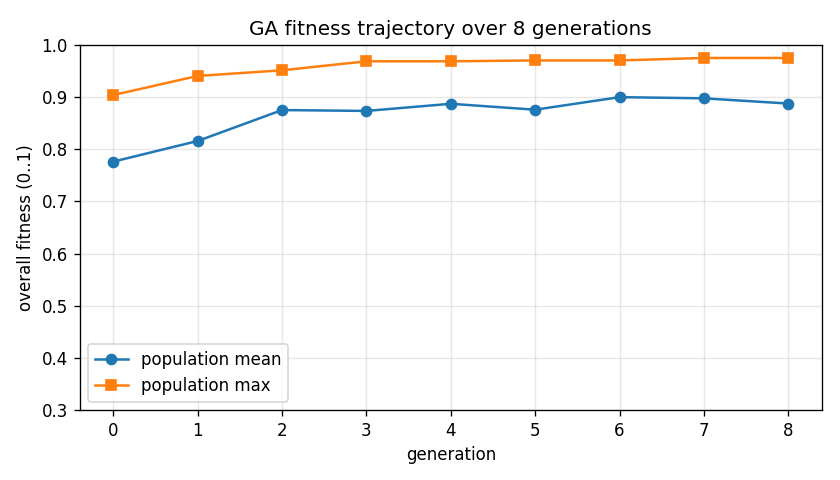
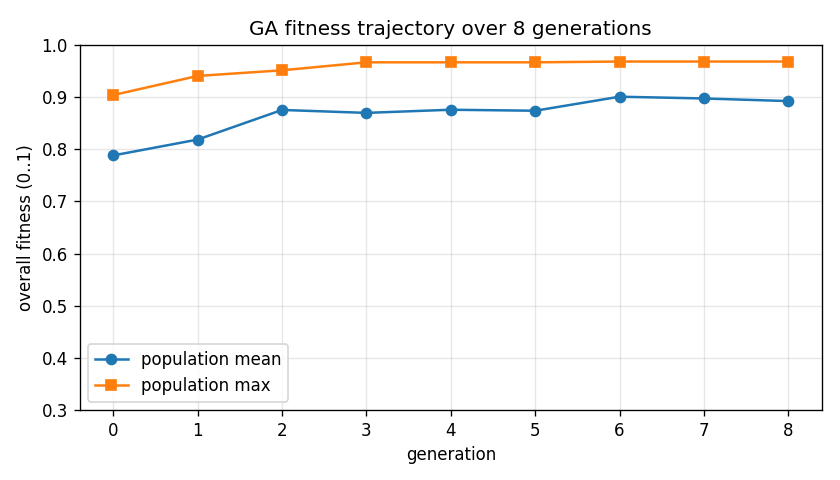
render3d: shoulder strap ends at clavicle, not on the ear
On this T-pose mesh the body radius narrows at the neck (~r=1 at y=148)
then flares back out through the skull from y=150-170 at radius 5-7.
My earlier _body_point_at(V, u=0.27, y=y_neck+8=162) looked for the
nearest 'torso' vertex within max_torso_radius=22 — at that height the
closest in-range vertex is on the ear / jaw, so both shoulder-strap
tubes ended right on the ears. From the front render they read as two
thin earrings and, combined with the halter tubes, showed up as
vertical lines under the chin on e.g. american_sporty.

Fix: compute shoulder_end directly from the anchor instead of doing a
mesh lookup at ear altitude —

    end = anchor + (-0.3*anchor[0], +4, +1)

Pulls the tube 30% toward centerline in x, 4 cm up (clavicle height,
~y=144 on this mesh), 1 cm forward. Guaranteed to stay on the shoulder
topology; no _body_point_at call at or above y_neck.

Tests still 27/27 passing; archetype gallery now has clean ears on all
14 samples, halter straps cleanly converge at the sternal notch.

diff --git a/tools/render3d_uv.py b/tools/render3d_uv.py
@@ -852,20 +852,28 @@ def build_strap_meshes(body_mesh: o3d.geometry.TriangleMesh, g,
     straps.extend(_build_beads_meshes(g, V, v_to_y))
     straps.extend(_build_shell_mesh(g, V, v_to_y))
 
-    # 6) Shoulder straps — two tubes from outer-top of each cup up to the
-    #    shoulder (where they'd meet the back band in reality). Controlled
-    #    by g.top_shoulder_strap.
+    # 6) Shoulder straps — two short tubes from the outer-top of each cup
+    #    up to the clavicle / top of the shoulder. End position is derived
+    #    from the cup anchor + a fixed up-and-in offset rather than
+    #    sampling the body mesh high above y_neck — a _body_point_at()
+    #    lookup at y_neck+8 lands on the head (ears / jaw) on this
+    #    T-pose mesh because the neck constriction makes the nearest
+    #    torso-radius vertex the skull.
     if g.top_shoulder_strap > 0.15:
         strap_r = 0.15 + 0.22 * g.top_shoulder_strap
         cup_top_v = g.top_center_v + g.top_half_v
         u_outer = g.top_inner_u + 2 * g.top_half_u
         y_start = v_to_y(cup_top_v)
-        y_shoulder = y_neck + 8.0                    # just below shoulder cap
         for u_s, name in [(u_outer, "shoulder_R"), (-u_outer, "shoulder_L")]:
             anchor = _body_point_at(V, u_s, y_start)
-            # shoulder end: slightly outward of anchor, up at shoulder height,
-            # and on the TOP of the shoulder (y slightly forward in z)
-            shoulder_end = _body_point_at(V, u_s * 0.6, y_shoulder)
+            # end point: up 4cm (just to shoulder top / clavicle level),
+            # pulled 30% inward in X (toward neck) and +1cm in Z (front
+            # of shoulder). Stays safely below the head.
+            shoulder_end = anchor + np.array([
+                -0.30 * anchor[0],   # pull toward center
+                4.0,                 # up
+                1.0,                 # forward
+            ])
             strap = _arc_tube(np.array([anchor, shoulder_end]), radius=strap_r)
             straps.append((name, strap))
 

diff --git a/tools/output/TEST_REPORT.md b/tools/output/TEST_REPORT.md
@@ -1,6 +1,6 @@
 # Bikini GA — Test + Report
 
-Generated at 2026-04-24 01:50:16
+Generated at 2026-04-24 01:57:54
 
 
 ## 1. Sanity — construction, constraints, privacy seeds, patterns
@@ -31,11 +31,11 @@ Generated at 2026-04-24 01:50:16
 
 - ✅ **PASS** — All 200 offspring pass privacy-seed containment
 - ✅ **PASS** — All offspring respect stay-on topology (back coverage, waist span)
-- 📊 Offspring spans **7/12 patterns**, **12/14 archetypes**, **5/6 hardware metals**.
+- 📊 Offspring spans **9/12 patterns**, **12/14 archetypes**, **5/6 hardware metals**.
 
 - ✅ **PASS** — Offspring show multiple patterns
 - ✅ **PASS** — Offspring show multiple archetypes
-- 📊 Hue std across 200 offspring = **0.305** (expected > 0.05)
+- 📊 Hue std across 200 offspring = **0.304** (expected > 0.05)
 
 - ✅ **PASS** — Hue diversifies via GA
 - ✅ **PASS** — All non-boolean continuous fields vary across offspring
@@ -48,10 +48,10 @@ Generated at 2026-04-24 01:50:16
 | proportion | 0.708 | 0.210 | 0.067 | 0.998 |
 | harmony | 0.735 | 0.180 | 0.345 | 0.999 |
 | emphasis | 0.784 | 0.218 | 0.550 | 1.000 |
-| rhythm | 0.668 | 0.198 | 0.300 | 1.000 |
-| unity | 0.881 | 0.075 | 0.800 | 0.950 |
-| contrast | 0.682 | 0.206 | 0.154 | 0.998 |
-| overall | 0.780 | 0.069 | 0.600 | 0.933 |
+| rhythm | 0.713 | 0.199 | 0.300 | 1.000 |
+| unity | 0.901 | 0.070 | 0.800 | 0.950 |
+| contrast | 0.684 | 0.205 | 0.154 | 0.998 |
+| overall | 0.789 | 0.070 | 0.617 | 0.959 |
 
 
 ![Fitness histograms](test_fitness_histogram.png)
@@ -63,22 +63,22 @@ Generated at 2026-04-24 01:50:16
 
 | gen | mean_fitness | max_fitness |
 |---|---|---|
-| 0 | 0.776 | 0.904 |
-| 1 | 0.816 | 0.940 |
+| 0 | 0.788 | 0.904 |
+| 1 | 0.818 | 0.940 |
 | 2 | 0.875 | 0.951 |
-| 3 | 0.873 | 0.968 |
-| 4 | 0.887 | 0.968 |
-| 5 | 0.876 | 0.970 |
-| 6 | 0.900 | 0.970 |
-| 7 | 0.897 | 0.975 |
-| 8 | 0.887 | 0.975 |
+| 3 | 0.870 | 0.966 |
+| 4 | 0.876 | 0.966 |
+| 5 | 0.874 | 0.966 |
+| 6 | 0.901 | 0.968 |
+| 7 | 0.897 | 0.968 |
+| 8 | 0.892 | 0.968 |
 
 
 ![Fitness trajectory](test_fitness_trajectory.png)
 
 
-- ✅ **PASS** — Mean fitness improved: 0.776 -> 0.887
-- ✅ **PASS** — Max fitness non-decreasing: 0.904 -> 0.975
+- ✅ **PASS** — Mean fitness improved: 0.788 -> 0.892
+- ✅ **PASS** — Max fitness non-decreasing: 0.904 -> 0.968
 
 ## 5. Style archetype gallery — one 3D render per style_archetype
 
